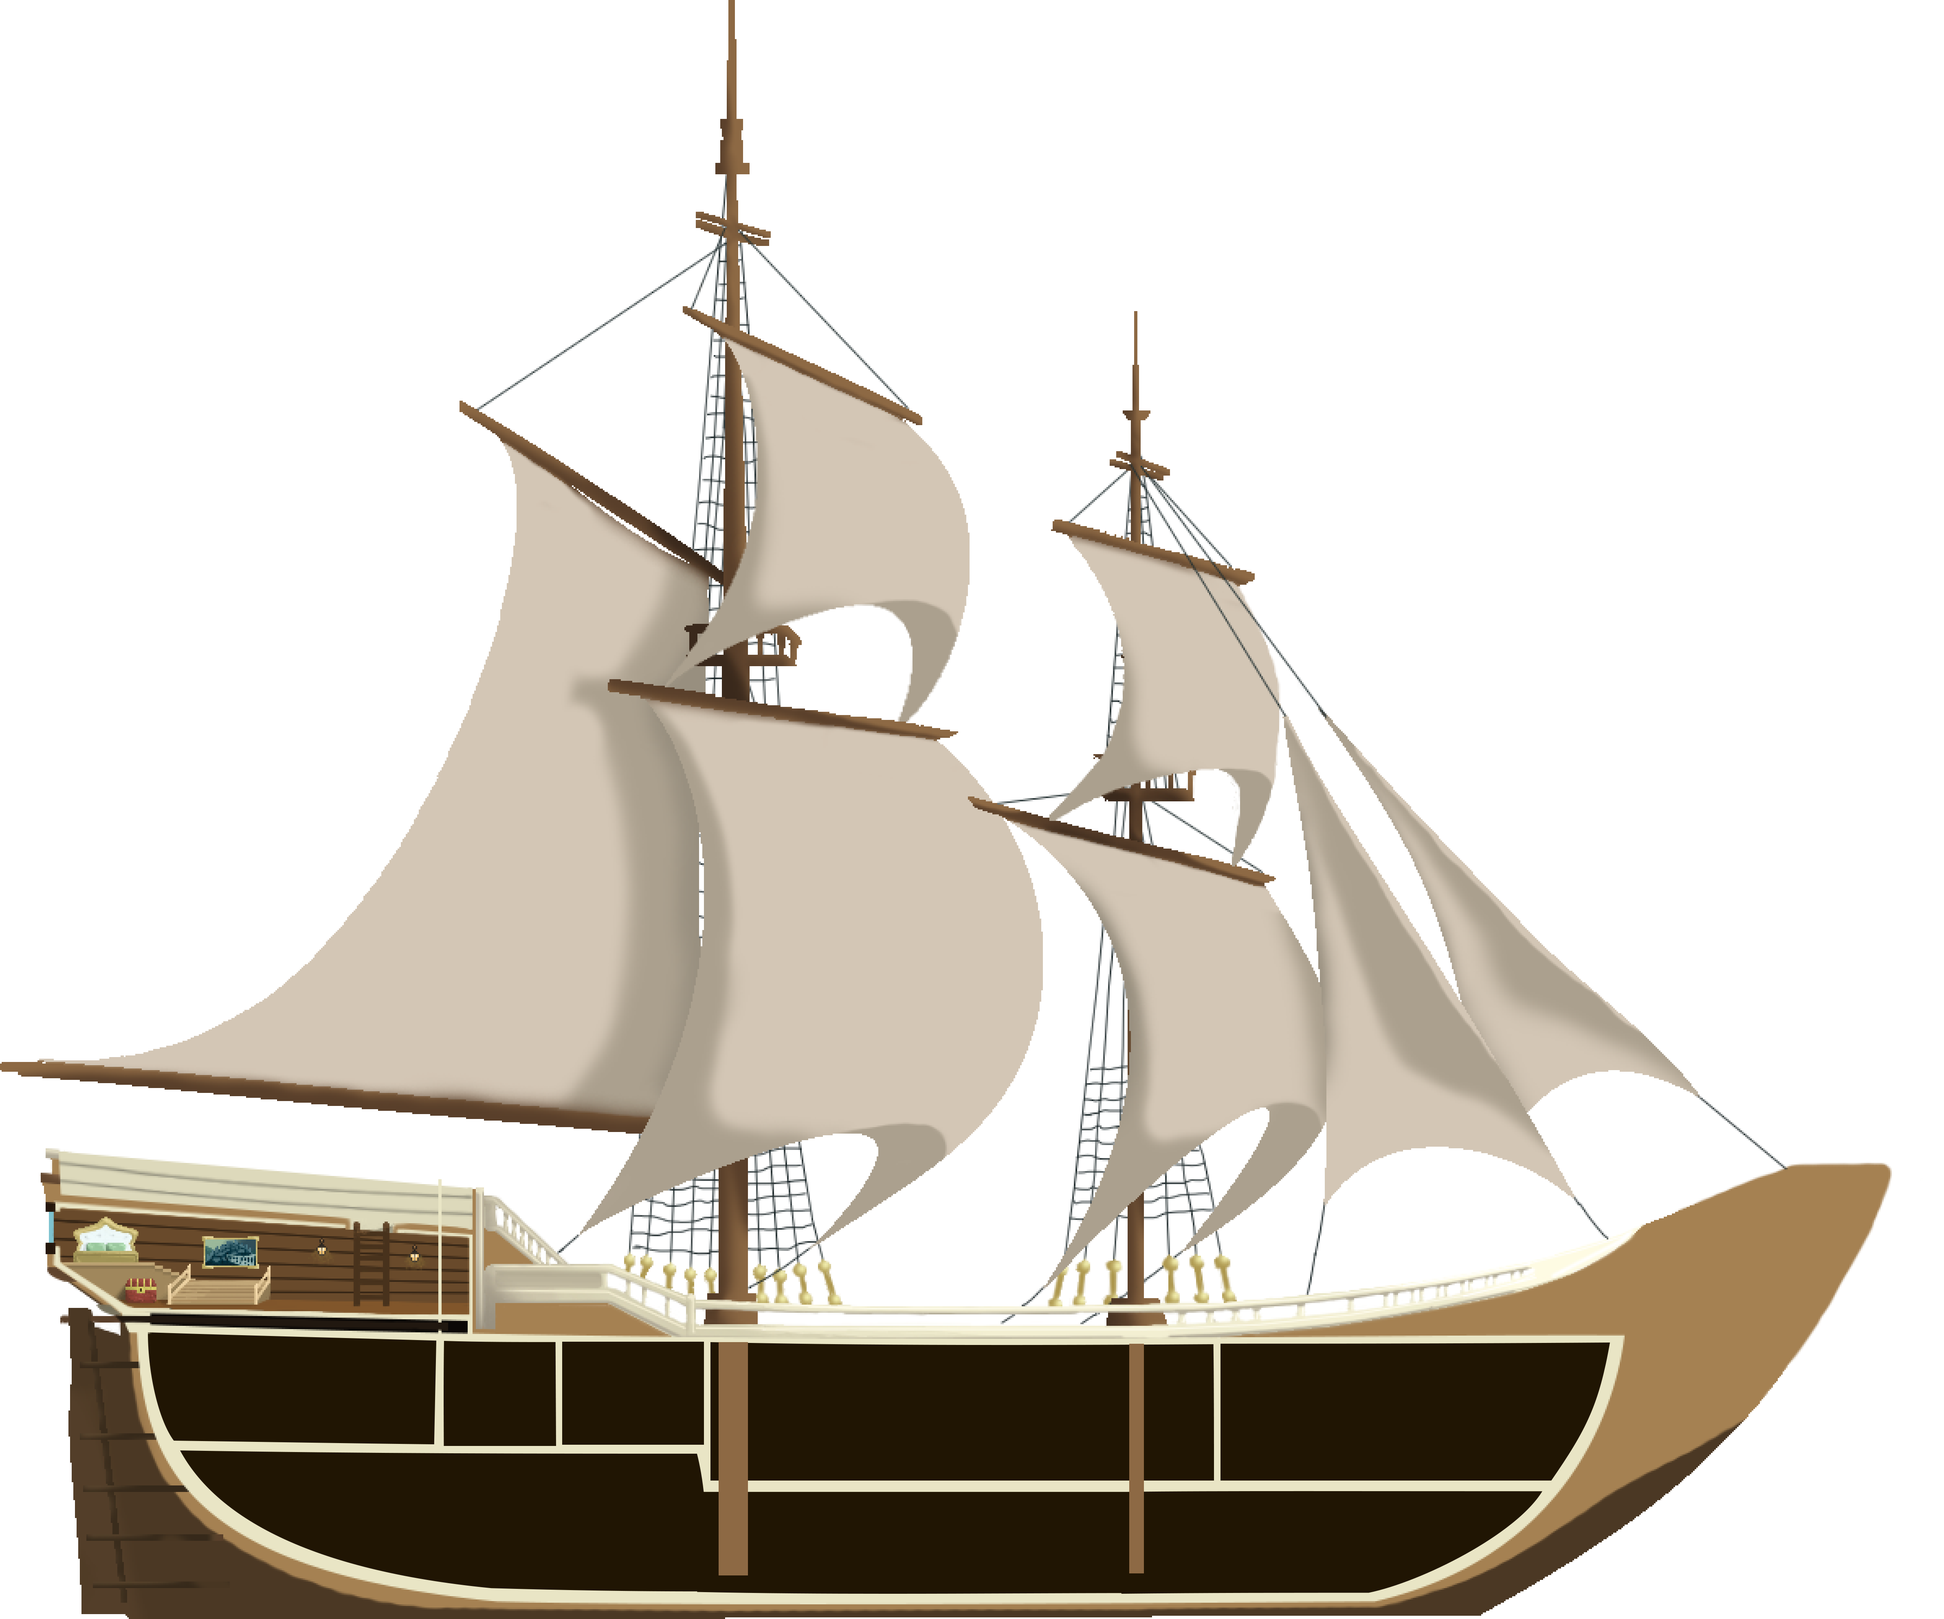
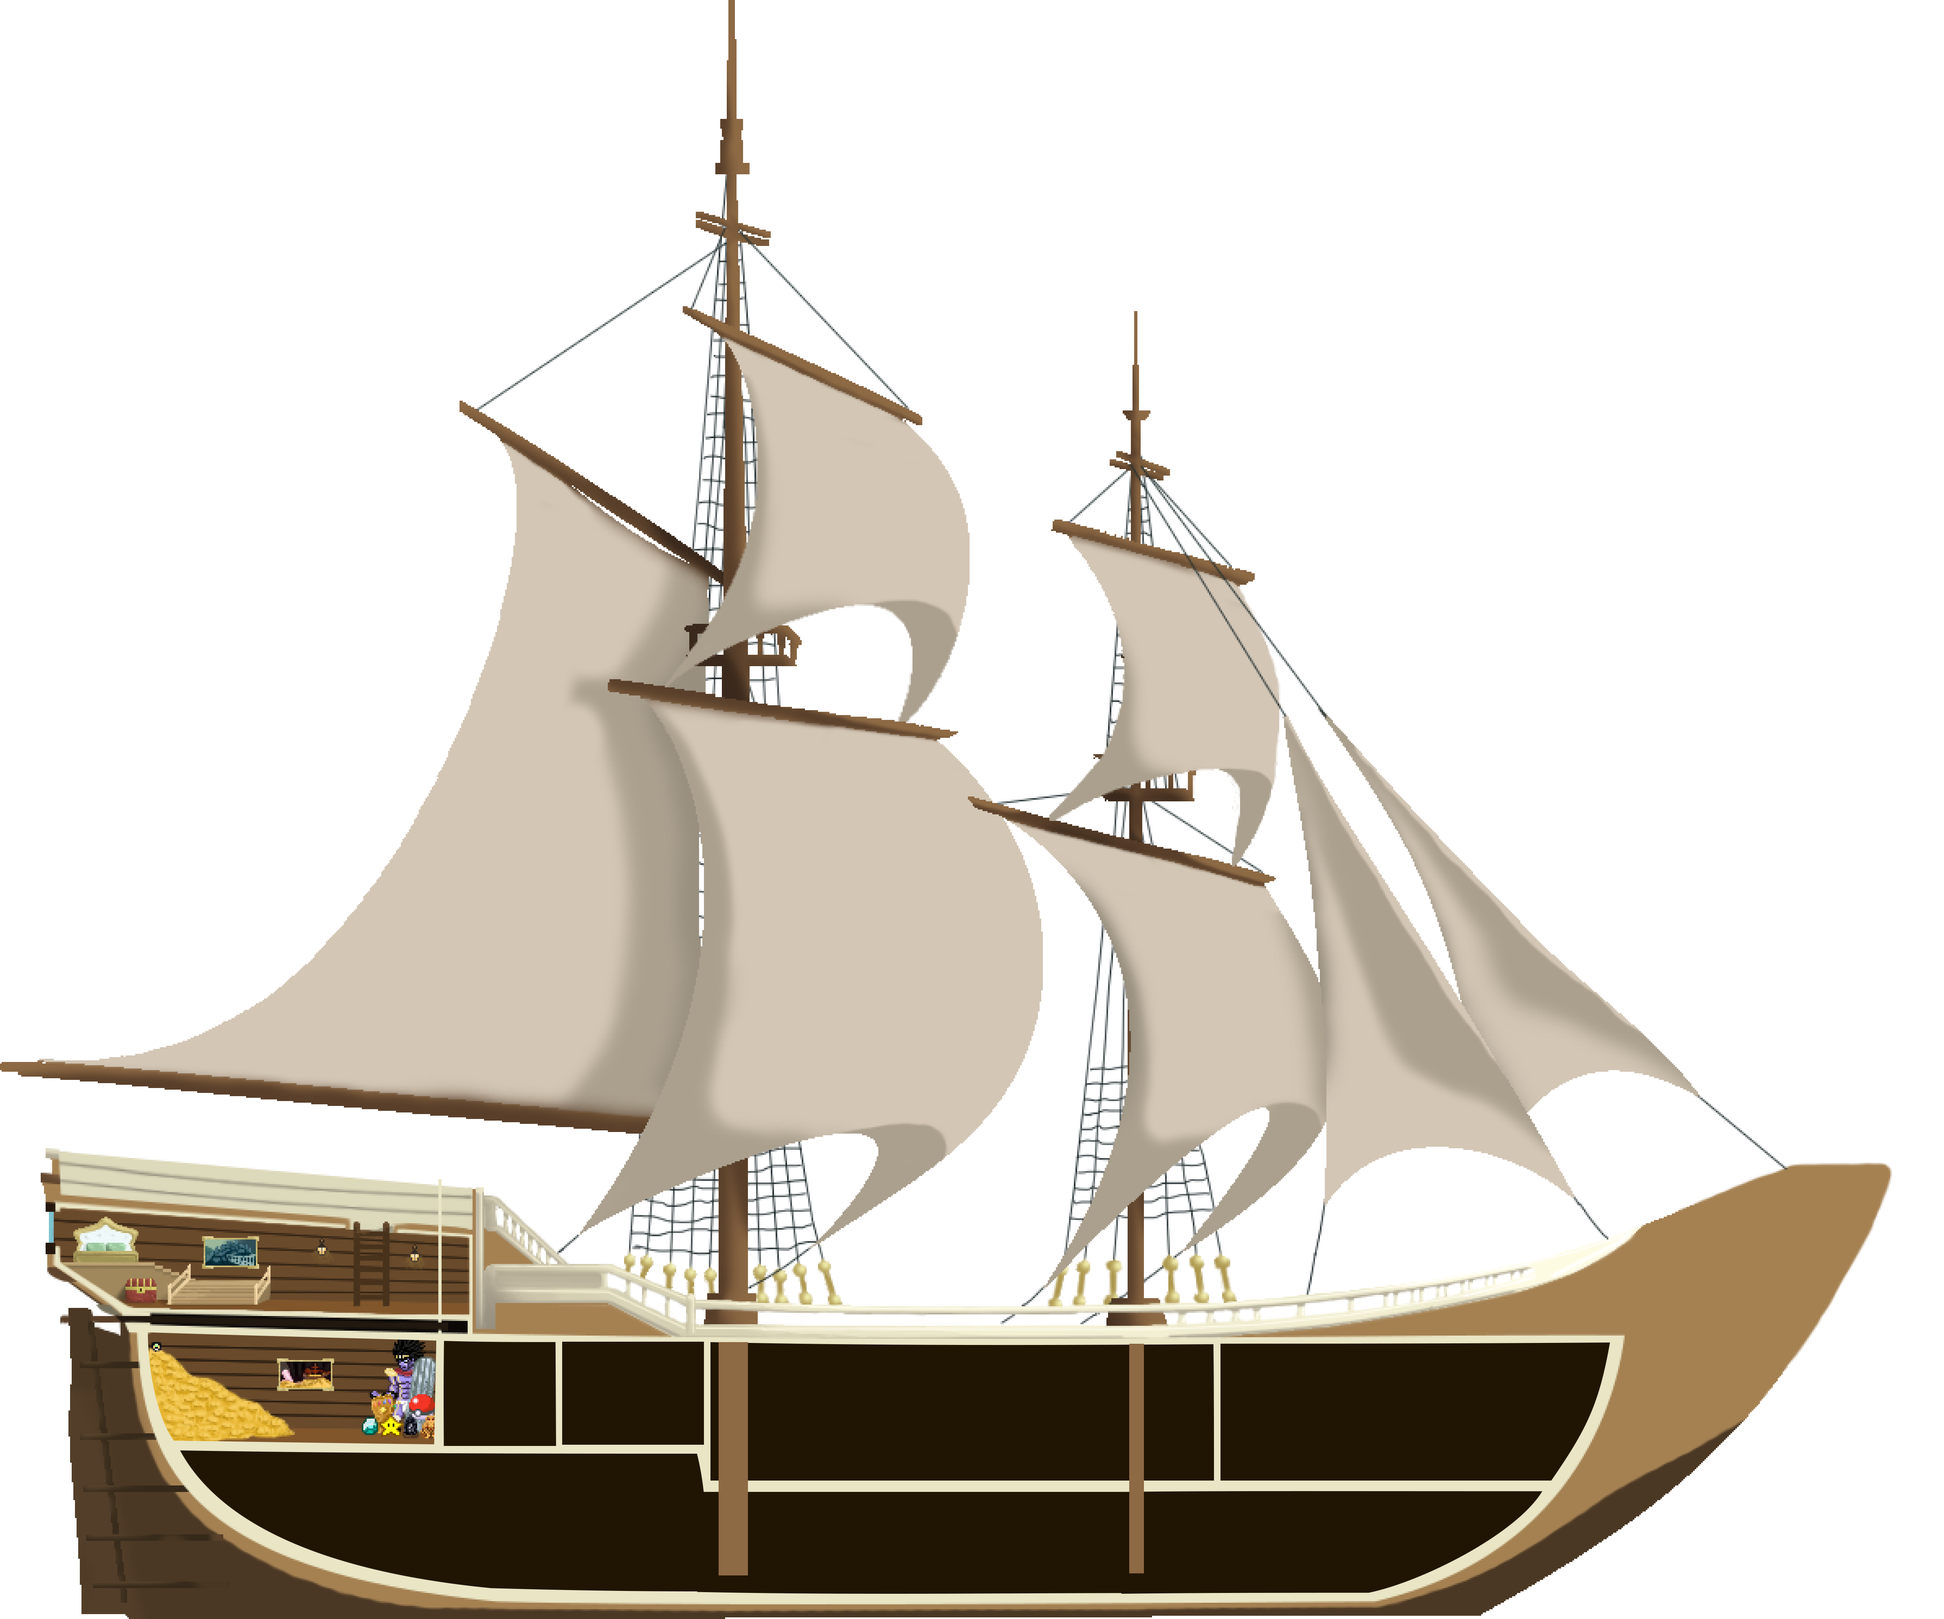
feat: Completed Treasure Room
treasure-room art and formatting finished.
Timeline cards and Projects Section in treasure room all working.
Added themed exit button.

Changed region(s): [[0.0624, 0.8109, 0.2498, 0.9044]]

diff --git a/src/app/treasure-room/components/TimelineCard.tsx b/src/app/treasure-room/components/TimelineCard.tsx
@@ -1,5 +1,4 @@
 import Link from "next/link";
-import React from "react";
 import { Project } from "../configs/ProjectsConfig";
 
 const TimelineCard = ({
@@ -11,21 +10,90 @@ const TimelineCard = ({
 }) => {
   const cardClasses = position === "left" ? "" : "translate-x-full";
 
+  const getStatusText = (status: number | undefined) => {
+    switch (status) {
+      case 2:
+        return <span className="text-green-400"> (Finished)</span>;
+      case 1:
+        return <span className="text-blue-500"> (In Progress)</span>;
+      case 0:
+        return <span className="text-red-400"> (Paused)</span>;
+      default:
+        return null;
+    }
+  };
+
   return (
-    <div className={`relative mb-8 w-1/2 ${cardClasses}`}>
-      <div className="bg-stone-800 p-6 rounded-lg shadow-xl border border-stone-700 transition-all duration-300 hover:scale-105 hover:shadow-2xl">
-        <h3 className="text-xl font-bold mb-2 text-stone-300">
-          {project.year} - {project.title}
-        </h3>
+    <div className={`group relative w-1/2 ${cardClasses}`}>
+      <div
+        className="relative bg-yellow-600 p-6 rounded-md shadow-xl
+                  transition-all duration-300 hover:shadow-2xl overflow-visible"
+      >
+        <div className="flex gap-6 items-center">
+          {/* Main content, with image and title first */}
+          {project.imageUrl && (
+            <img
+              src={project.imageUrl}
+              alt={`${project.alt}`}
+              className="rounded-lg w-1/4"
+            />
+          )}
+          <h3 className="text-2xl font-bold text-white flex flex-col">
+            <span>
+              {project.year} - {project.title}
+            </span>
+            {project.status != null && (
+              <div
+                className="mt-2 text-sm font-semibold rounded-full px-4 py-1 
+                          bg-gray-800 inline-block self-start"
+              >
+                {getStatusText(project.status)}
+              </div>
+            )}
+          </h3>
+        </div>
 
-        <p className="text-stone-400 text-sm">{project.description}</p>
-
-        <Link
-          href={project.link}
-          className="inline-block mt-4 text-sm text-amber-400 hover:underline"
+        {/* The expandable section */}
+        <div
+          className={`
+            absolute left-0 right-0 top-8/9 mt-0 
+            bg-gradient-to-b from-yellow-600 to-stone-900 
+            rounded-lg shadow-xl z-10
+            transition-all duration-300 ease-in-out 
+            group-hover:opacity-100 group-hover:transform group-hover:scale-100
+            opacity-0 transform origin-top
+            p-6
+          `}
         >
-          View Project &rarr;
-        </Link>
+          <p className="text-white text-md mb-4">{project.description}</p>
+          <div className="flex flex-col gap-1">
+            {/* Using when I implement full project pages
+            <Link
+              href={project.link}
+              className="inline-block text-sm text-yellow-200 hover:underline"
+            >
+              Full Project Page &rarr;
+            </Link>
+            */}
+
+            <Link
+              href={project.github}
+              className="inline-block text-sm text-green-300 hover:underline"
+              target="_blank"
+            >
+              GitHub Repo &rarr;
+            </Link>
+            {project.demoUrl && (
+              <Link
+                href={project.demoUrl}
+                className="inline-block text-sm text-green-300 hover:underline"
+                target="_blank"
+              >
+                Short Demo Video &rarr;
+              </Link>
+            )}
+          </div>
+        </div>
       </div>
     </div>
   );

diff --git a/src/app/treasure-room/configs/ProjectsConfig.ts b/src/app/treasure-room/configs/ProjectsConfig.ts
@@ -1,49 +1,56 @@
 export type Project = {
   id: number;
-  title: string;
-  alt: string;
-  description: string;
-  src: string;
-  link: string;
   year: string;
+  title: string;
+  status?: number;
+  description: string;
+  imageUrl: string;
+  alt: string;
+  link: string;
+  github: string | "https://github.com/ThatcherMcc";
+  demoUrl?: string;
 };
 
 export const projects: Project[] = [
   {
     id: 1,
-    title: "Whiplash Drumming App",
-    alt: "Whiplash Drumming App cover image",
-    description: "A metronome app for aspiring drummers.",
-    src: "/projects/whiplash-app",
-    link: "/projects/whiplash-app",
-    year: "2023",
+    year: "2025",
+    title: "Customer Segmentation Analysis",
+    status: 2,
+    description:
+      "Uses K-Means Data Clustering on real-world, uncleaned, transactional data from \
+      from a service-based business in order to identify distinct customer segments.",
+    imageUrl: "/treasure-room/data-clustering-plot.jpg",
+    alt: "Data Clustering analysis final graph with an RFM Model analysis.",
+    link: "/projects/data-clustering",
+    github: "https://github.com/ThatcherMcc/Customer-Segmentation-Analysis",
   },
   {
     id: 2,
-    title: "Firelink Website",
-    alt: "Firelink Website cover image",
-    description: "A portfolio inspired by Dark Souls' aesthetic.",
-    src: "/projects/firelink-website",
-    link: "/projects/firelink-website",
     year: "2024",
+    title: "NBA Player Prop Analysis",
+    status: 1,
+    description:
+      "Webscrapes player gamelogs to create a single database that contains all relevant statistics. \
+      Using this data I made a software that will build a graph based on player, stat, prop line to \
+      show the history of any chosen player's performance",
+    imageUrl: "/treasure-room/nba-player-prop.jpg",
+    alt: "Player performance graph based on statistic, prop line, and player.",
+    link: "/projects/nba-player-prop-analaysis",
+    github: "https://github.com/ThatcherMcc/NBA-Player-Prop-Analysis",
   },
   {
     id: 3,
-    title: "Treasure Planet Gallery",
-    alt: "Treasure Planet Gallery cover image",
-    description: "An animated gallery with smooth transitions.",
-    src: "/projects/treasure-gallery",
-    link: "/projects/treasure-gallery",
-    year: "2024",
-  },
-  {
-    id: 4,
-    title: "Vinland Saga Project",
-    alt: "Vinland Saga Project cover image",
+    year: "2023",
+    title: "Off World Video Game",
+    status: 1,
     description:
-      "A blog dedicated to character analysis and thematic breakdowns.",
-    src: "/projects/vinland-saga-project",
-    link: "/projects/vinland-saga-project",
-    year: "2025",
+      "Action RPG game with the unique concept of taking and applying other creatures anatomy and powers.\
+      It allows for creative and fun anatomy combinations for fighting bosses.",
+    imageUrl: "/treasure-room/off-world.jpg",
+    alt: "Off World video game cover image with astronaut holding a frog on mountains.",
+    link: "/projects/off-world",
+    github: "https://github.com/ThatcherMcc/Off-World",
+    demoUrl: "https://youtube.com/watch?v=I9-k-yx-beE",
   },
 ];

diff --git a/src/app/treasure-room/page.tsx b/src/app/treasure-room/page.tsx
@@ -3,6 +3,8 @@
 import React from "react";
 import ProjectsSection from "./components/ProjectSection";
 import AllowScroll from "../captains-quarters/components/AllowScroll";
+import Link from "next/link";
+import Image from "next/image";
 
 // --- Main Treasure Room Page ---
 export default function TreasureRoomPage() {
@@ -13,22 +15,36 @@ export default function TreasureRoomPage() {
         <div
           className="fixed inset-0 w-full h-full z-0 bg-cover bg-center"
           style={{
-            backgroundImage: "url(/treasure-planet-bg.png)",
+            backgroundImage: "url(/treasure-room/treasure-planet-bg.png)",
             backgroundAttachment: "fixed",
           }}
         >
           <div className="absolute inset-0 w-full h-full backdrop-blur-sm"></div>
         </div>
 
-        <div className="relative z-20 outline outline-red-500">
+        <div className="relative z-5">
           {/* Page Title */}
           <h1
-            className="text-center text-6xl font-serif font-extrabold text-transparent bg-clip-text bg-gradient-to-r from-yellow-300 to-amber-600
-                     drop-shadow-lg drop-shadow-yellow-500/50 p=4 mt-4"
+            className="text-center text-6xl font-extrabold text-transparent bg-clip-text bg-gradient-to-r from-yellow-300 to-amber-600
+                     drop-shadow-lg drop-shadow-yellow-500/50 p-4 mt-4 mb-8"
           >
             The Treasure Room
           </h1>
         </div>
+        <Link href="/?boatState=interior" className="fixed left-12 top-10 z-10">
+          <div className="relative w-30 h-30 cursor-pointer group">
+            <Image
+              src="/treasure-room/green-planet.png"
+              alt="Green planet icon from treasure planet's map"
+              layout="fill"
+              objectFit="contain"
+              className="transition-transform duration-300 scale-125 group-hover:scale-150"
+            />
+            <span className="absolute left-1/2 -translate-x-1/2 top-3/4 mt-2 bg-stone-800 text-stone-200 px-3 py-1 rounded-full text-xs font-semibold opacity-0 transition-opacity duration-300 group-hover:opacity-100 whitespace-nowrap">
+              Return to Home Planet
+            </span>
+          </div>
+        </Link>
         <ProjectsSection />
       </div>
     </>

diff --git a/src/components/Boat.tsx b/src/components/Boat.tsx
@@ -37,9 +37,7 @@ export default function MyBoat({ searchParams }: MyBoatProps) {
     BOAT_ANIMATION_CONFIG[weatherParam] || BOAT_ANIMATION_CONFIG.sunny;
 
   const handleBoatClick = () => {
-    if (boatState == "exterior") {
-      window.dispatchEvent(new CustomEvent("boatClick"));
-    }
+    window.dispatchEvent(new CustomEvent("boatClick"));
   };
 
   const handleRoomClick = (room: BoatRoom) => {
@@ -216,14 +214,34 @@ export default function MyBoat({ searchParams }: MyBoatProps) {
                   </span>
                 </div>
               </motion.div>
+              {/* Treasure Room */}
+              <motion.div
+                className="absolute top-[82.5%] left-[7%] w-[15.5%] h-[7%] cursor-pointer rounded-lg bg-transparent hover:bg-amber-800 hover:bg-opacity-30 border-2 border-transparent hover:border-amber-300"
+                onClick={() => handleRoomClick("treasure-room")}
+                title="Treasure Room"
+              >
+                <div className="absolute inset-0 flex items-center justify-center transition-opacity opacity-0 hover:opacity-100">
+                  <span className="bg-amber-800 text-white px-2 py-1 rounded text-sm font-semibold">
+                    Treasure Room
+                  </span>
+                </div>
+              </motion.div>
             </div>
           )}
 
-          {boatRoom && (
+          {boatRoom == "captains-quarters" && (
             <div className="absolute inset-0">
               <a
-                className="absolute top-[76.1%] left-[10.1%] w-[3.6%] h-[2.6%] cursor-pointer rounded-sm hover:bg-gray-200 hover:opacity-50 duration-300"
+                className="absolute top-[76.2%] left-[10.1%] w-[3.5%] h-[2.4%] cursor-pointer rounded-sm hover:bg-gray-200 hover:opacity-50 duration-300"
                 href="/captains-quarters"
+              ></a>
+            </div>
+          )}
+          {boatRoom == "treasure-room" && (
+            <div className="absolute inset-0">
+              <a
+                className="absolute top-[83.8%] left-[14%] w-[3.4%] h-[2.4%] cursor-pointer rounded-sm hover:bg-gray-200 hover:opacity-50 duration-300"
+                href="/treasure-room"
               ></a>
             </div>
           )}

diff --git a/src/managers/BoatURLManager.tsx b/src/managers/BoatURLManager.tsx
@@ -39,6 +39,12 @@ export default function BoatStateURLManager() {
       return;
     }
 
+    const handleExteriorClick = () => {
+      if (boatState != "exterior") {
+        updateBoatState("exterior");
+      }
+    };
+
     const handleBoatClick = () => {
       if (boatState != "interior") {
         updateBoatState("interior");
@@ -53,11 +59,13 @@ export default function BoatStateURLManager() {
       updateBoatState("exterior");
     };
 
+    window.addEventListener("exteriorClick", handleExteriorClick);
     window.addEventListener("boatClick", handleBoatClick);
     window.addEventListener("roomClick", handleRoomClick as EventListener);
     window.addEventListener("backToSea", handleBackToSea);
 
     return () => {
+      window.addEventListener("exteriorClick", handleExteriorClick);
       window.removeEventListener("boatClick", handleBoatClick);
       window.removeEventListener("roomClick", handleRoomClick as EventListener);
       window.removeEventListener("backToSea", handleBackToSea);

diff --git a/src/app/treasure-room/components/ProjectSection.tsx b/src/app/treasure-room/components/ProjectSection.tsx
@@ -7,11 +7,15 @@ export default function ProjectsSection() {
 
   return (
     <div className="relative p-8 max-w-7xl mx-auto">
+      <h1 className="relative text-4xl font-extrabold text-transparent bg-clip-text bg-gradient-to-r from-yellow-300 to-amber-600 drop-shadow-lg drop-shadow-yellow-500/50 text-center mb-6">
+        Project Timeline
+        <span className="absolute bottom-[-4px] left-0 w-full h-1 bg-gradient-to-r from-yellow-300 to-amber-600"></span>
+      </h1>
       {/* The vertical line */}
-      <div className="absolute left-1/2 transform -translate-x-1/2 h-full w-1 bg-stone-700 hidden md:block"></div>
+      <div className="absolute left-1/2 transform -translate-x-1/2 bg-stone-900 h-full w-8 hidden md:block"></div>
 
       {/* The timeline items */}
-      <div className="flex flex-col">
+      <div className="flex flex-col gap-35 mb-15">
         {items.map((project, index) => (
           <TimelineCard
             key={project.id}

diff --git a/src/components/WaveBackground.tsx b/src/components/WaveBackground.tsx
@@ -32,9 +32,20 @@ export default function WaveBackground({ searchParams }: WaveBackgroundProps) {
   const currentWaveConfig =
     WEATHER_WAVE_CONFIGS[weatherParam] || WEATHER_WAVE_CONFIGS.sunny;
 
+  const getWaveBottomValue = () => {
+    switch (boatRoom) {
+      case "captains-quarters":
+        return "-100px";
+      case "treasure-room":
+        return "-50px";
+      default:
+        return "0px";
+    }
+  };
+
   return (
     <motion.div
-      animate={{ "--wave-bottom": boatRoom ? "-100px" : "0px" }}
+      animate={{ "--wave-bottom": getWaveBottomValue() }}
       transition={{ duration: 1.3, ease: "easeInOut" }}
     >
       {/* Backmost layer of the ocean waves (lowest z-index) */}

diff --git a/src/configs/boat-configs.ts b/src/configs/boat-configs.ts
@@ -30,5 +30,5 @@ export const BOAT_ANIMATION_CONFIG: {
 
 export const ROOM_ZOOM_CONFIG = {
   "captains-quarters": { x: 1600, y: -1000 },
-  "treasure-room": { x: -150, y: 50 },
+  "treasure-room": { x: 1500, y: -1250 },
 };
